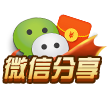
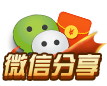
上海麻将

diff --git a/Mahjong/Classes/mahjong/lobby/LobbyScene.cpp b/Mahjong/Classes/mahjong/lobby/LobbyScene.cpp
@@ -273,7 +273,7 @@ void LobbyScene::drawSceneTop(){
 
 void LobbyScene::drawSceneMid(){
     
-    auto sharefriend = MenuItemImage::create("mjlobby/share_1.png", "mjlobby/share_2.png",
+    auto sharefriend = MenuItemImage::create("mjlobby/hongbao_1.png", "mjlobby/hongbao_1.png",
                                              CC_CALLBACK_0(LobbyScene::showRedWallet, this));
     auto shareMenu = Menu::create(sharefriend, NULL);
     shareMenu->alignItemsHorizontallyWithPadding(15);
@@ -293,11 +293,20 @@ void LobbyScene::drawSceneMid(){
         textbg->runAction(Repeat::create(Sequence::create(MoveTo::create(0.92f,Point(750,580)),MoveTo::create(0.92f,Point(750,570)),NULL), CC_REPEAT_FOREVER));
     }
     
+    auto jizhanItem = MenuItemImage::create("mjlobby/share_1.png", "mjlobby/share_1.png",
+                                             CC_CALLBACK_0(LobbyScene::showRedWallet, this));
+    auto jizhanMenu = Menu::create(jizhanItem, NULL);
+    jizhanMenu->alignItemsHorizontallyWithPadding(15);
+    jizhanMenu->setPosition(650, 435);
+    jizhanMenu->setTag(1989);
+    addChild(jizhanMenu);
+    
+    
     auto huodong = MenuItemImage::create("mjlobby/red_wallet_1.png","mjlobby/red_wallet_2.png",CC_CALLBACK_0(LobbyScene::showHotActivity, this));
     auto mymenu = Menu::create(huodong,NULL);
-    mymenu->setPosition(650,435);
-    mymenu->setTag(1980);
-    mymenu->setVisible(false);
+    mymenu->setPosition(650,335);
+//    mymenu->setTag(1980);
+//    mymenu->setVisible(false);
     addChild(mymenu);
     
     //跑马灯
